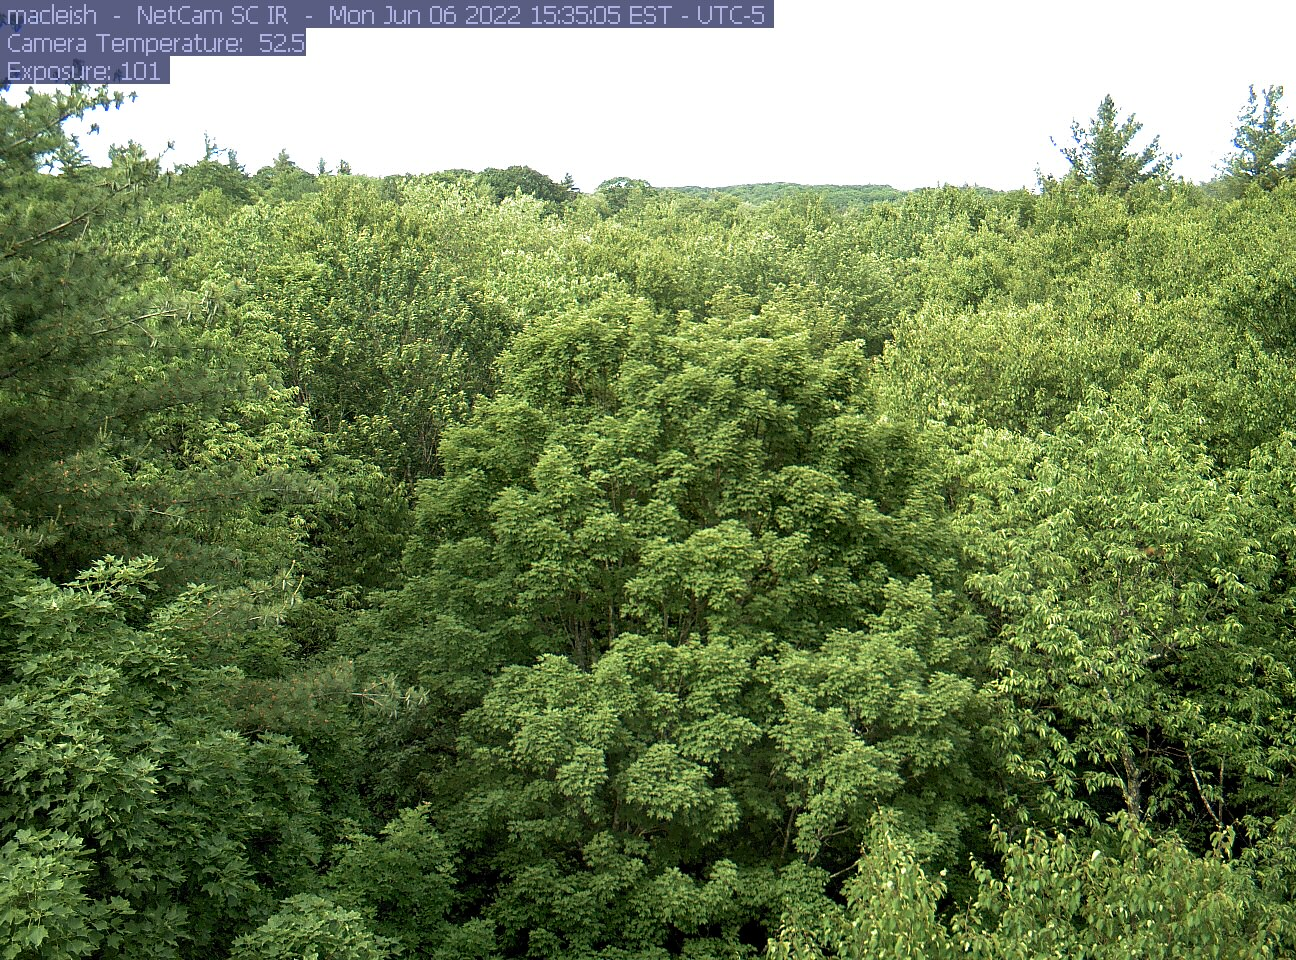
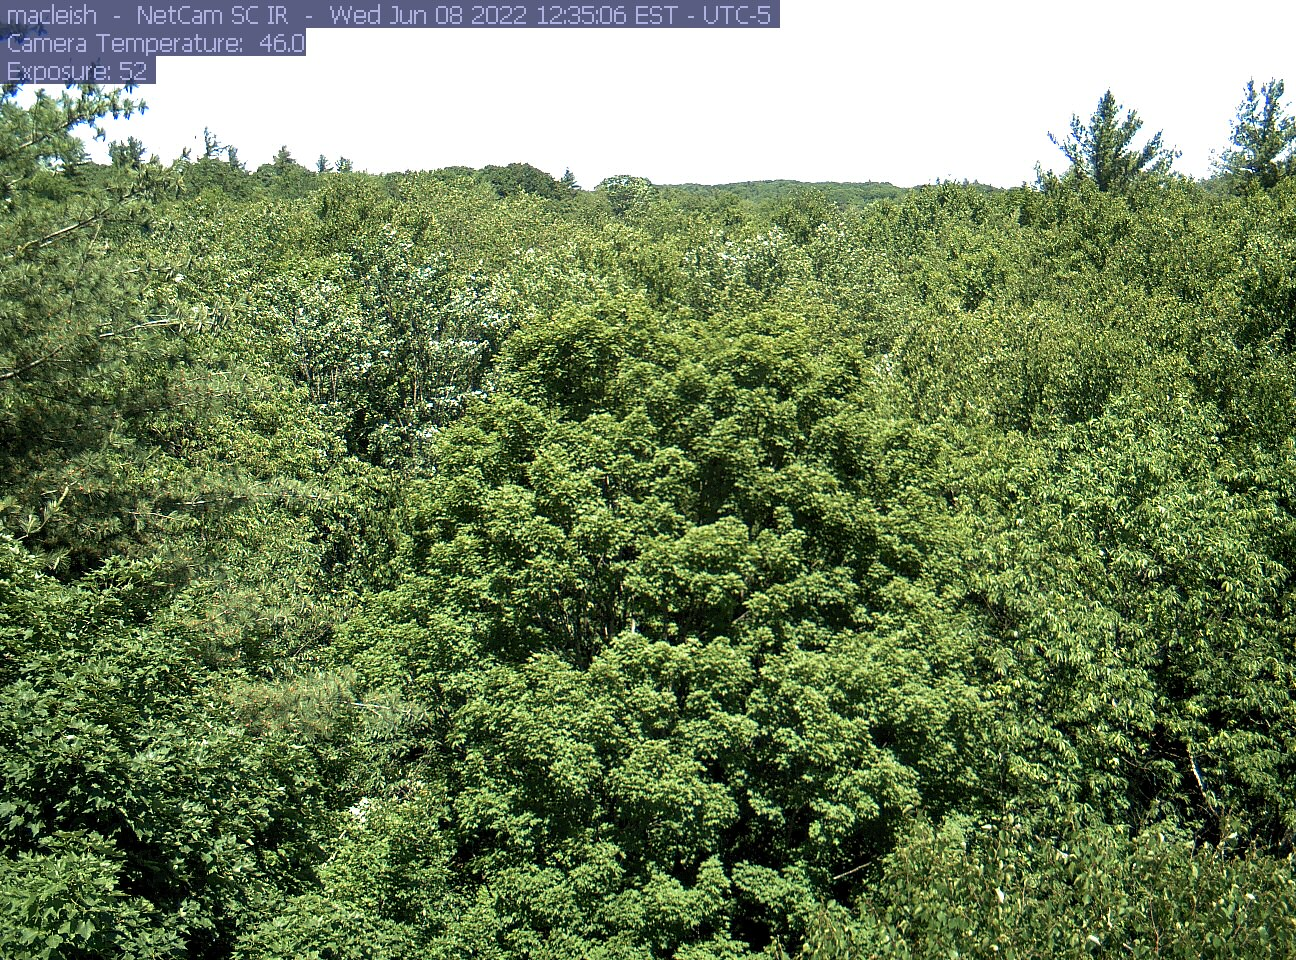
added pkgs.bib

diff --git a/joss_paper/paper.md b/joss_paper/paper.md
@@ -1,6 +1,6 @@
 ---
-title: 'The MacLeish Package: R Package for analyzing weather and spatial data'
-date: "2022-06-06"
+title: 'MacLeish: An R Package for analyzing spatial, temporal, and photographic data for environmental research'
+date: "2022-06-08"
 authors:
   - name: Benjamin S. Baumer
     orcid: 0000-0002-3279-0516
@@ -14,7 +14,7 @@ authors:
 affiliations: 
  - name: Smith College, Northampton, Massachusetts, USA  
    index: 1
-bibliography: refs.bib
+bibliography: [pkgs.bib, refs.bib]
 biblio-style: apa
 tags:
   - R
@@ -30,7 +30,7 @@ output:
 
 
 
-# Abstract
+# Summary
 
 The Ada & Archibald MacLeish Field Station is a 250-acre patchwork of forest and pasture land in Whately, MA that presents the opportunity for all members of the Smith College community (students, faculty, staff, and alum) to pursue artistic inquiry, environmental research, outdoor education, and low-impact recreation. The `macleish` R package was created to analyze weather and spatial data based on the MacLeish Field Station.
 
@@ -40,15 +40,20 @@ By making this data accessible in an R Package with a simple interface, we hope 
 
 # Introduction 
 
-Computational analysis is becoming a crucial component of research in ecology. However, programming presents new challenges for ecological investigators who are unfamiliar with statistical applications. Even researchers that are versed in efficient programming may be restricted by knowledge of code. Therefore, interdisciplinary research between ecology and statistics remains limited in scope, depth, and quality (@Visser:2015). 
+Computational analysis is becoming a crucial component of research in ecology. However, programming presents new challenges for ecological investigators who are unfamiliar with statistical applications. Even researchers that are versed in efficient programming may be restricted by knowledge of code. Therefore, interdisciplinary research between ecology and statistics remains limited in scope, depth, and quality [@Visser:2015]. 
 
 Here, we create an R Package with a simple interface that access to weather, spatial, and photography data to inspire interdisciplinary collaboration. The `macleish` Package, uses data from the Ada and Archibald MacLeish Field Station. 
 
-The Ada and Archibald MacLeish Field Station is a 243-acre patchwork of forest and pasture land on top of a flat ridge in Whately, Massachusetts (See Figure \ref{fig:macleish}). The station is located about 11 miles from Smith College. The community at Smith College, including students, faculty, staff, and alum, pursue artistic inquiry, environmental research, outdoor education, and low-impact recreation at the MacLeish Field Station. Students are integral to the operation and maintenance of the field as stewards for the land, designers of programs, and participants in key decision-making (@SmithCollege:2021). 
+The [Ada and Archibald MacLeish Field Station](https://www.smith.edu/about-smith/sustainable-smith/macleish) is a 243-acre patchwork of forest and pasture land on top of a flat ridge in Whately, Massachusetts (See Figure \ref{fig:macleish}). 
+The station is located about 11 miles from Smith College. The community at Smith College, including students, faculty, staff, and alum, pursue artistic inquiry, environmental research, outdoor education, and low-impact recreation at the MacLeish Field Station. 
+Students are integral to the operation and maintenance of the field as stewards for the land, designers of programs, and participants in key decision-making. 
+
+
+
 
 \begin{figure}
 
-{\centering \includegraphics[width=0.5\linewidth]{macleish} 
+{\centering \includegraphics[width=0.5\linewidth]{macleish_trail_map} 
 
 }
 
@@ -56,11 +61,12 @@ The Ada and Archibald MacLeish Field Station is a 243-acre patchwork of forest a
 \end{figure}
 
 
-Although a diverse ecosystem exists in the MacLeish Field Station, invasive insects and fungus have drastically altered the forest composition. American chestnut trees were once the most common tree in New England forests. However, due to the lethal chestnut blight, a fungus from Asia, most chestnut trees died because of infection. To harbor the survival of the American chestnut tree, the tree was crossed with the Chinese chestnut tree, which is resistant to the blight, to create a blight-resistant hybrid. White pine trees were another victim of a fungus native to Asia, referred to as the white pine blister rust. Similar to the chestnut blight, the white pine blister is fatal. Although decades of effort to control the white pine blister rust conserved most of the white pine tree population, a combination of logging and the blister rust greatly reduced the composition of forests at MacLeish. Furthermore, the Eastern Hemlock tree is a martyr of the Hemlock Woolly Adelgid, an invasive insect native to Asia. High volumes of woolly adelgid populations can kill a tree within a few years by weighing down the branches and causing the needles to fall off. Finally, the beech scale insect is an invasive insect from Europe. The insect is capable of carrying the fungus Nectria coccinea, which is transmitted into the tree when the insects feed on beech sap. Nectria coccinea causes the bark of beech trees to blister and crack, making the tree susceptible to further infection by insects and other kinds of fungus. Beech trees infected with the fungus die within six years. Unfortunately, both the Hemlock Woolly adelgid and the beech scale insect are highly resistant to the cold and thrive during the warm. Therefore, trees are threatened by these insects year-round. Similarly, as the climate is projected to warm, the range of both insects will continue to expand (@Moise:2021). 
+Although a diverse ecosystem exists in the MacLeish Field Station, invasive insects and fungus have drastically altered the forest composition. American chestnut trees were once the most common tree in New England forests. However, due to the lethal chestnut blight, a fungus from Asia, most chestnut trees died because of infection. To harbor the survival of the American chestnut tree, the tree was crossed with the Chinese chestnut tree, which is resistant to the blight, to create a blight-resistant hybrid. White pine trees were another victim of a fungus native to Asia, referred to as the white pine blister rust. Similar to the chestnut blight, the white pine blister is fatal. Although decades of effort to control the white pine blister rust conserved most of the white pine tree population, a combination of logging and the blister rust greatly reduced the composition of forests at MacLeish. Furthermore, the Eastern Hemlock tree is a martyr of the Hemlock Woolly Adelgid, an invasive insect native to Asia. High volumes of woolly adelgid populations can kill a tree within a few years by weighing down the branches and causing the needles to fall off. Finally, the beech scale insect is an invasive insect from Europe. The insect is capable of carrying the fungus Nectria coccinea, which is transmitted into the tree when the insects feed on beech sap. Nectria coccinea causes the bark of beech trees to blister and crack, making the tree susceptible to further infection by insects and other kinds of fungus. Beech trees infected with the fungus die within six years. Unfortunately, both the Hemlock Woolly adelgid and the beech scale insect are highly resistant to the cold and thrive during the warm. Therefore, trees are threatened by these insects year-round. Similarly, as the climate is projected to warm, the range of both insects will continue to expand [@Moise:2021]. 
 
-Likewise, other invasive species exist at the MacLeish Field Station. The autumn olive, Japanese barberry, multiflora rose, oriental bittersweet, and wild grape are all invasive species that contend with native Massachusetts plant species. The ability of these invasive species to produce an abundant quantity of seeds, grow quickly, and thrive without natural predators allow them to pose a serious threat to out-compete native species. Conservation research and efforts are ongoing to address the expansion of these invasive species (@Moise:2021). 
+Likewise, other invasive species exist at the MacLeish Field Station. The autumn olive, Japanese barberry, multiflora rose, oriental bittersweet, and wild grape are all invasive species that contend with native Massachusetts plant species. The ability of these invasive species to produce an abundant quantity of seeds, grow quickly, and thrive without natural predators allow them to pose a serious threat to out-compete native species. Conservation research and efforts are ongoing to address the expansion of these invasive species [@Moise:2021]. 
 
-Within the MacLeish Field Station are a number of stations and administrative buildings that collect data and foster environmental education. For instance, the Whately and Orchard Weather Stations store historical and collect current meteorological weather data. The Smith College Observatory is frequently used by the astronomy department at Smith College for astronomical research. The Bechtel Environmental Classroom was created by the Environmental Science & Policy program using top-notch sustainable strategies. The classroom provides a meeting space for environmental laboratory and educational use (@SmithCollege:2021). Evidently, the MacLeish Field Station is highly interdisciplinary, appealing to multiple departments at once, and aims to inspire research in the arts, humanities, and natural sciences among the Smith College community. Through the `macleish` Package, we hope to expand the opportunity for members of Smith College to pursue research, contribute to the R Package, and influence other institutions with analogous research sites to create more accessible programming interfaces.
+Within the MacLeish Field Station are a number of stations and administrative buildings that collect data and foster environmental education. For instance, the Whately and Orchard Weather Stations store historical and collect current meteorological weather data. The Smith College Observatory is frequently used by the astronomy department at Smith College for astronomical research. The Bechtel Environmental Classroom was created by the Environmental Science & Policy program using top-notch sustainable strategies. The classroom provides a meeting space for environmental laboratory and educational use. 
+Evidently, the [MacLeish Field Station](https://www.smith.edu/about-smith/sustainable-smith/macleish) is highly interdisciplinary, appealing to multiple departments at once, and aims to inspire research in the arts, humanities, and natural sciences among the Smith College community. Through the `macleish` Package, we hope to expand the opportunity for members of Smith College to pursue research, contribute to the R Package, and influence other institutions with analogous research sites to create more accessible programming interfaces.
 
 Examples of research conducted at MacLeish by Smith Faculty include @Zukswert:2014, @Ignace:2018, @Guswa:2011, @Jackson:2018, @Guswa:2011, @Bassar:2015, @Wetzel:2017, @Visser:2015, and @Moise:2021.
 
@@ -76,7 +82,7 @@ The MacLeish Field Station is abundant with scientific inquiry, where the Smith 
   
 Users may generate usable summary statistics and plots using the data from the `macleish` package. 
 
-# `macleish` Package Main Functionalities
+# Features
 
 To use the `macleish` package, first run `install.packages(macleish)` to install the package in R, then run the following code to load the package:
 
@@ -85,11 +91,7 @@ To use the `macleish` package, first run `install.packages(macleish)` to install
 library(macleish)
 ```
 
-
-
-
-
-## Maps of MacLeish
+## Spatial data
 
 Shapefile-based maps of MacLeish Field Station are available in the `macleish_layers` data object. The following layers will be displayed on the map. 
 
@@ -106,34 +108,41 @@ Running the following code creates an interactive `leaflet` map for users to zoo
 
 
 ```r
+library(leaflet)
 map <- leaflet() %>%
   addTiles() %>%
   addPolygons(
-    data = macleish_layers[["boundary"]], 
+    data = macleish_layers[["boundary"]],
     weight = 1, fillOpacity = 0.1
   ) %>%
   addPolygons(
-    data = macleish_layers[["buildings"]], 
-    weight = 1, popup = ~ name
+    data = macleish_layers[["buildings"]],
+    weight = 1, popup = ~name
   ) %>%
   addPolylines(
-    data = macleish_layers[["trails"]], 
+    data = macleish_layers[["trails"]],
     weight = 1, color = "brown",
-    popup = ~ name
+    popup = ~name
   ) %>%
   addPolylines(
-    data = macleish_layers[["streams"]], 
+    data = macleish_layers[["streams"]],
     weight = 2
   ) %>%
   addMarkers(
-    data = filter(macleish_layers[["landmarks"]], grepl("Met", Label)), 
+    data = filter(macleish_layers[["landmarks"]], grepl("Met", Label)),
     popup = ~Label
   )
 ```
 
 
 ```r
-include_graphics(path = "leaflet.png")
+map
+```
+
+
+
+```r
+knitr::include_graphics(path = "leaflet.png")
 ```
 
 \begin{figure}
@@ -145,11 +154,10 @@ include_graphics(path = "leaflet.png")
 \caption{Interactive `leaflet` map of the MacLeish Field Station.}\label{fig:leafletmap}
 \end{figure}
 
+## Research data
 
-
-## Field data
-
-Two tree plot datasets is available through `tree_diameter1` and `tree_diameter2`. The time frame varies between `tree_diameter1` (2010-2015) and `tree_diameter2` (2009-2016), and `tree_diameter2` lacks data on position of individual trees. The datasets present change in tree diameter over a set of years for two plots dominated by the parasites Hemlock Woolly Adelgid. See Tables \ref{tab:tree-diameter-1} and \ref{tab:tree-diameter-2}. 
+Two tree plot datasets is available through `tree_diameter1` and `tree_diameter2`. The time frame varies between `tree_diameter1` (2010-2015) and `tree_diameter2` (2009-2016), and `tree_diameter2` lacks data on position of individual trees. The datasets present change in tree diameter over a set of years for two plots dominated by the parasites Hemlock Woolly Adelgid. 
+See Tables \ref{tab:tree-diameter-1} and \ref{tab:tree-diameter-2}. 
 
 
 ```r
@@ -157,16 +165,16 @@ tree_diameter1
 ```
 
 ```r
-tree_diameter1 %>% 
-  head() %>% 
-  select(-module) %>% 
-  kable(
+tree_diameter1 %>%
+  head() %>%
+  select(-module) %>%
+  knitr::kable(
     format = "latex",
     caption = "Tree diameter dataset 1.",
     booktabs = TRUE,
     escape = FALSE,
     linesep = ""
-  ) %>% 
+  ) %>%
   kableExtra::kable_styling(
     latex_options = c("hold_position")
   )
@@ -196,16 +204,16 @@ tree_diameter2
 ```
 
 ```r
-tree_diameter2 %>% 
-  head() %>% 
-  select(-module) %>% 
-  kable(
+tree_diameter2 %>%
+  head() %>%
+  select(-module) %>%
+  knitr::kable(
     format = "latex",
     caption = "Tree diameter dataset 2.",
     booktabs = TRUE,
     escape = FALSE,
     linesep = ""
-  ) %>% 
+  ) %>%
   kableExtra::kable_styling(
     latex_options = c("hold_position")
   )
@@ -251,7 +259,8 @@ By viewing an individual species, the distribution of diameter varies based on t
 \caption{Boxplot of tree diameter of Eastern Hemlock tree depending on position between 2010-2015.}\label{fig:unnamed-chunk-9}
 \end{figure}
 
-Below is a box plot of the distribution of diameter based on different tree species from 2009-2012 using the `tree_diameter2` dataset. Using individual data points on top of the box plots reveals the underlying distribution of each group. 
+Below is a box plot of the distribution of diameter based on different tree species from 2009-2012 using the `tree_diameter2` dataset. 
+Using individual data points on top of the box plots reveals the underlying distribution of each group. 
 
 \begin{figure}
 
@@ -307,28 +316,33 @@ orchard_2015
 ## #   par_density <dbl>, par_total <dbl>, rainfall <dbl>
 ```
 
-Furthermore, the ETL framework retrieves live and historical (2012-01-03 for Whately and 2014-06-27 for Orchard) weather data from both MacLeish Field Station weather monitors. 
+Furthermore, the ETL framework [@R-etl; @baumer2019grammar] retrieves live and historical (2012-01-03 for Whately and 2014-06-27 for Orchard) weather data from both MacLeish Field Station weather monitors. 
 
+## Photographic data
 
-## Phenocam functions
-
-The PhenoCam Network is an ecosystem phenology camera network that provides automated, near-surface remote sensing of canopy phenology across the northeastern United States and adjacent Canada, including the MacLeish Field Station. High-resolution digital cameras at the MacLeish Field Station take pictures of the canopy and upload them to the PhenoCam server every half hour. The PhenoCam Network permits analysis of archived images, providing an objective means by which canopy phenology can be monitored and quantified at relatively low cost and with minimal expenses.
+The PhenoCam Network is an ecosystem phenology camera network that provides automated, near-surface remote sensing of canopy phenology across the northeastern United States and adjacent Canada, including the MacLeish Field Station. High-resolution digital cameras at the MacLeish Field Station take pictures of the canopy and upload them to the PhenoCam server every half hour. 
+The PhenoCam Network permits analysis of archived images, providing an objective means by which canopy phenology can be monitored and quantified at relatively low cost and with minimal expenses.
+[@R-phenocamr]
 
 Figure \ref{fig:phenocam} displays an example of an image retrieved from the PhenoCam Network.
 
+
+
+
 \begin{figure}
 
-{\centering \includegraphics[width=1\linewidth]{phenocam} 
+{\centering \includegraphics[width=0.49\linewidth]{macleish_xmas} \includegraphics[width=0.49\linewidth]{macleish_latest} 
 
 }
 
-\caption{Image of the MacLeish Field Station taken above retrieved from the PhenoCam Network.}\label{fig:phenocam}
+\caption{Images of the MacLeish Field Station retrieved from the PhenoCam Network by the \texttt{phenocam\_image\_url()} function. The image on the left was taken in June 2022, while the image on the right was taken in December 2021. }\label{fig:phenocam}
 \end{figure}
+
 
 The function `get_macleish_image()` retrieves an image from the PhenoCam Network when the date and time are specified. 
 
 
-# Application and Perspectives 
+# Conclusion
 
 The `macleish` package is an R Package with a simple interface that access to weather, spatial, and photography data to inspire interdisciplinary collaboration among statisticians and ecologists. This is a dynamic project that was built with the interest of biologists. It currently supports interdisciplinary collaboration to foster statistical application among the ecology community. More functions and data are expected to be compiled in the package over time that seems fit to users to support an increasing collection of statistical analyses and visualizations.
 
